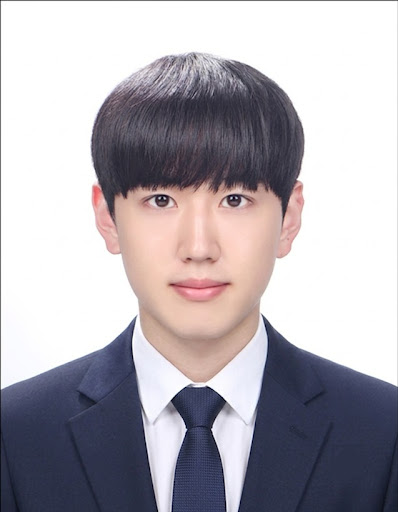
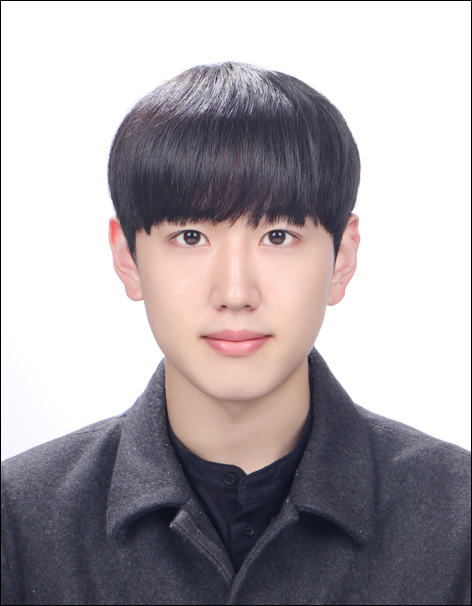
content: update profile photo

diff --git a/src/App.jsx b/src/App.jsx
@@ -823,7 +823,7 @@ export function App() {
                 <figure className="profile-file">
                   <figcaption>
                     <span><ImageIcon aria-hidden="true" /> profile-jaehwan.jpg</span>
-                    <span>398 × 512</span>
+                    <span>472 × 606</span>
                   </figcaption>
                   <div className="portrait-wrap">
                     <img src="/assets/profile-jaehwan.jpg" alt="김재환 프로필 사진" />
